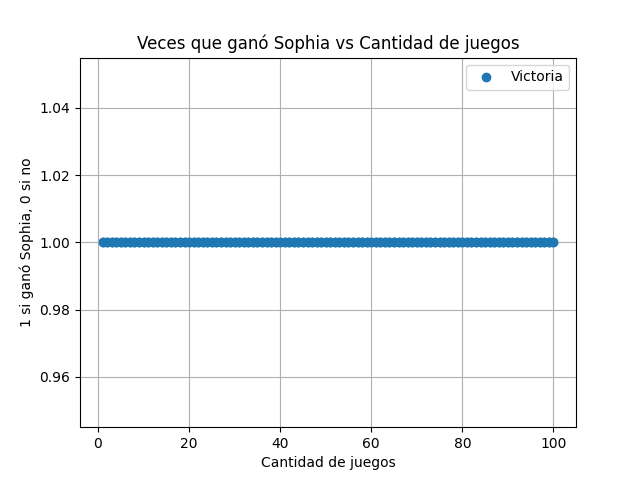
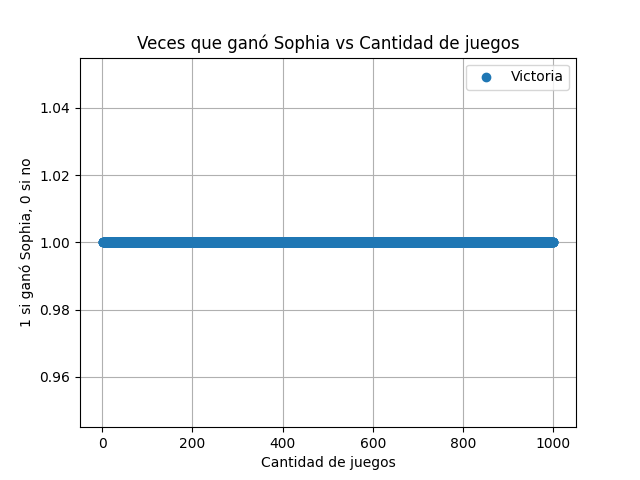
update foto con mas juegos

diff --git a/TP1/grafico.py b/TP1/grafico.py
@@ -6,7 +6,7 @@ from implementacion_optima import jugar
 import random
 
 
-N = 100
+N = 1000
 
 def leer_numeros_desde_txt(nombre_archivo):
     nombre_archivo = 'data/' + nombre_archivo
